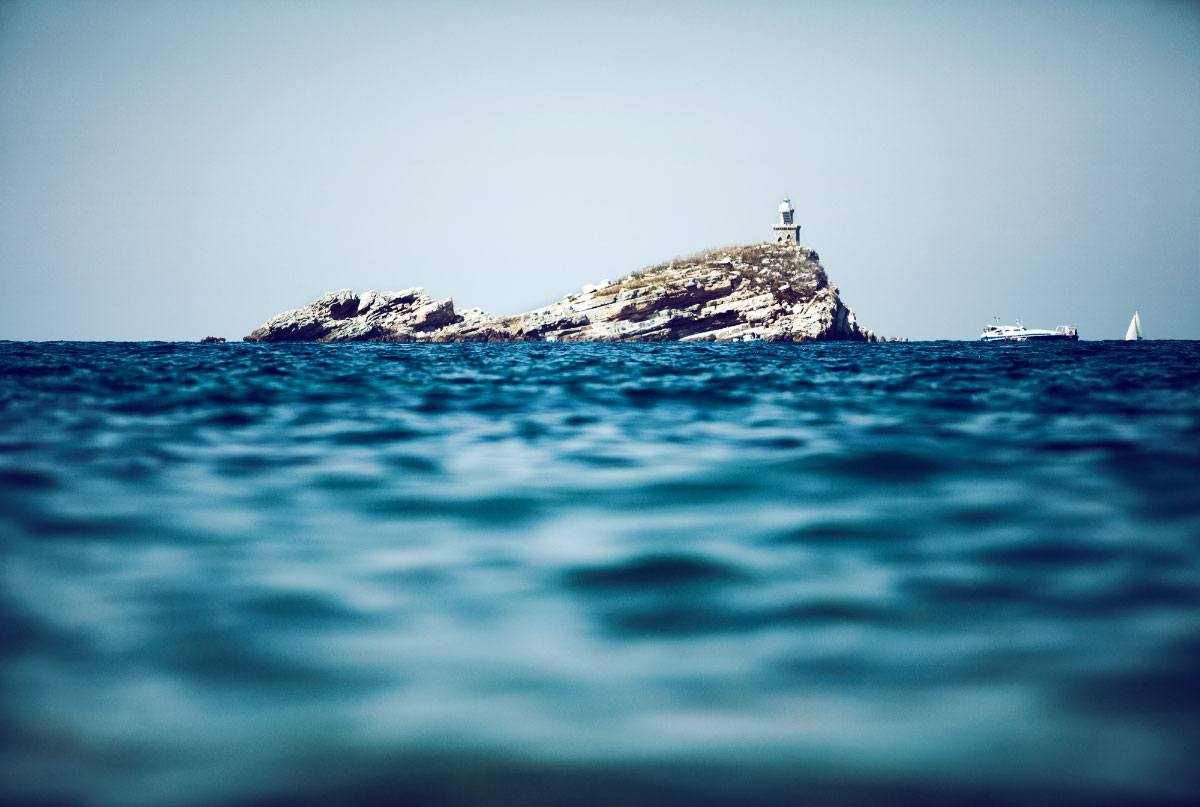
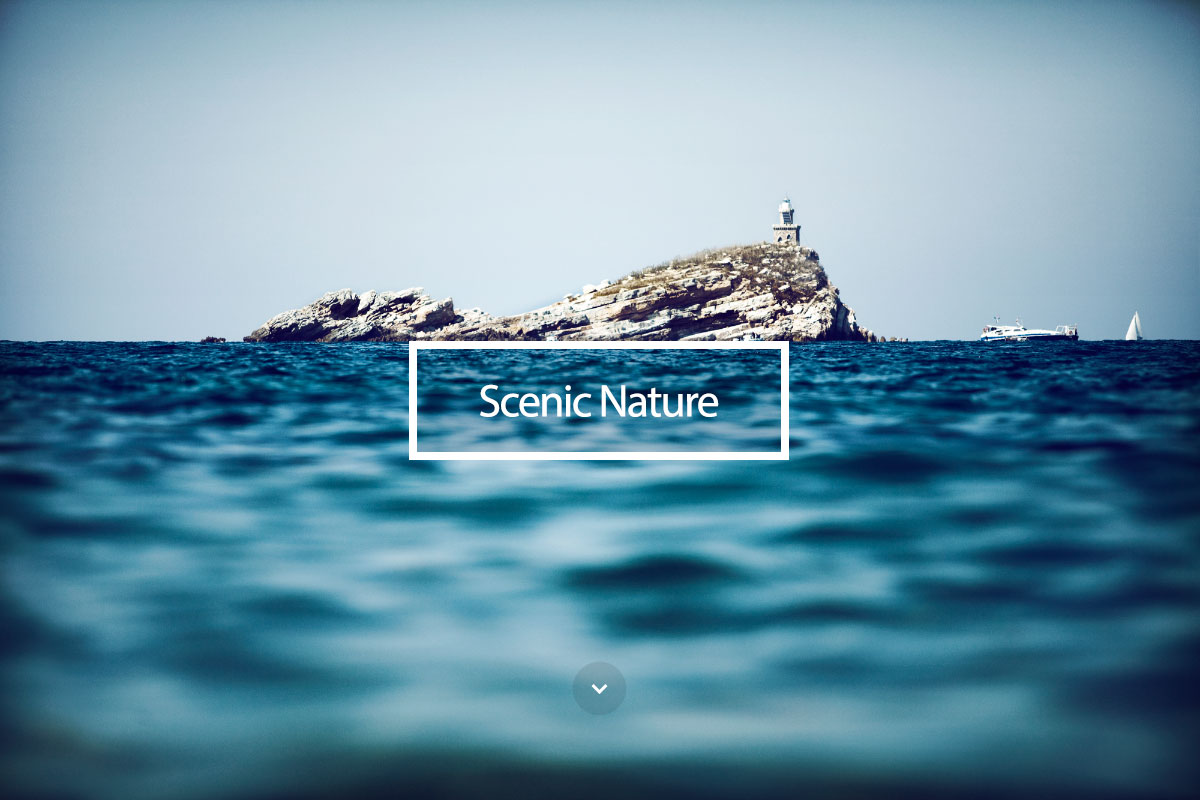
footer block

diff --git a/style.css b/style.css
@@ -292,6 +292,7 @@ a {
     min-width: 970px;
     height: 130px;
     background: #1abc9c;
+    margin: 0 0 30px;
 }
 #mail .container {
     padding: 25px 0 10px;
@@ -327,6 +328,39 @@ a {
   color: #23ccab;
 }
 #nature {
+    margin: 0 0 30px;
+    width: 1200px;
+    height: 800px;
     background: url("img/nature.jpg") no-repeat;
-    width:  980px;    
+    -moz-background-size: 100%; /* Firefox 3.6+ */
+    -webkit-background-size: 100%; /* Safari 3.1+ и Chrome 4.0+ */
+    -o-background-size: 100%; /* Opera 9.6+ */
+    background-size: 100%; /* Современные браузеры */
+    background-position: center;
+}
+#footer {
+    padding: 0 0 50px;
+    background: #f2f3f4;
+}
+#footer img {
+    margin: 104px 635px 127px;
+}
+#footer .title {
+    color: 1b1f23;
+    font-size: 46px;
+    margin: 0;
+}
+#footer p {
+    font-size: 20px;
+    color: #7e7e7e;
+    line-height: 31px;
+    width: 460px;
+    text-align: center;
+    margin: 47px 415px 93px;
+}
+#footer a {
+    text-decoration: underline;
+    color: #1b1f23;
+    font-size: 22px;
+    text-align: center;
 }

diff --git a/index.html b/index.html
@@ -111,7 +111,15 @@
         </div>
         
         <div id="nature">
-            
+        </div>
+        
+        <div id="footer">
+            <div class="title">
+                <img src="img/logo.png" alt="logo">
+                We have a full version of Startup Framework
+                <p>You will find there all the components and blocks you can use for creating a website.</p>
+                <a href="designmodo.com/startup">designmodo.com/startup</a>
+            </div>
         </div>
 </body>
 </html>
